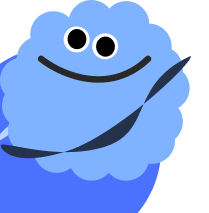
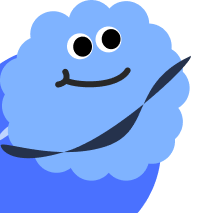
design : 구름 디자인 수정

Changed region(s): [[0.1722, 0.2535, 0.7464, 0.4225], [0.2871, 0.1127, 0.6029, 0.2817]]

diff --git a/src/components/friends/FollowModal.tsx b/src/components/friends/FollowModal.tsx
@@ -2,7 +2,7 @@ import React, { ReactNode } from "react";
 import { ModalLayout } from "../main/AlarmSideBar";
 import { styled } from "twin.macro";
 import X from "@/img/svg/x-box.svg";
-import friendCloud from "@/img/friends/friendCloud.png";
+import friendCloud from "@/img/friends/플라우디 로고.png";
 import notFound from "@/img/friends/notFound.png";
 import Image from "next/image";
 import Plus from "@/img/svg/friends/plus.svg";
